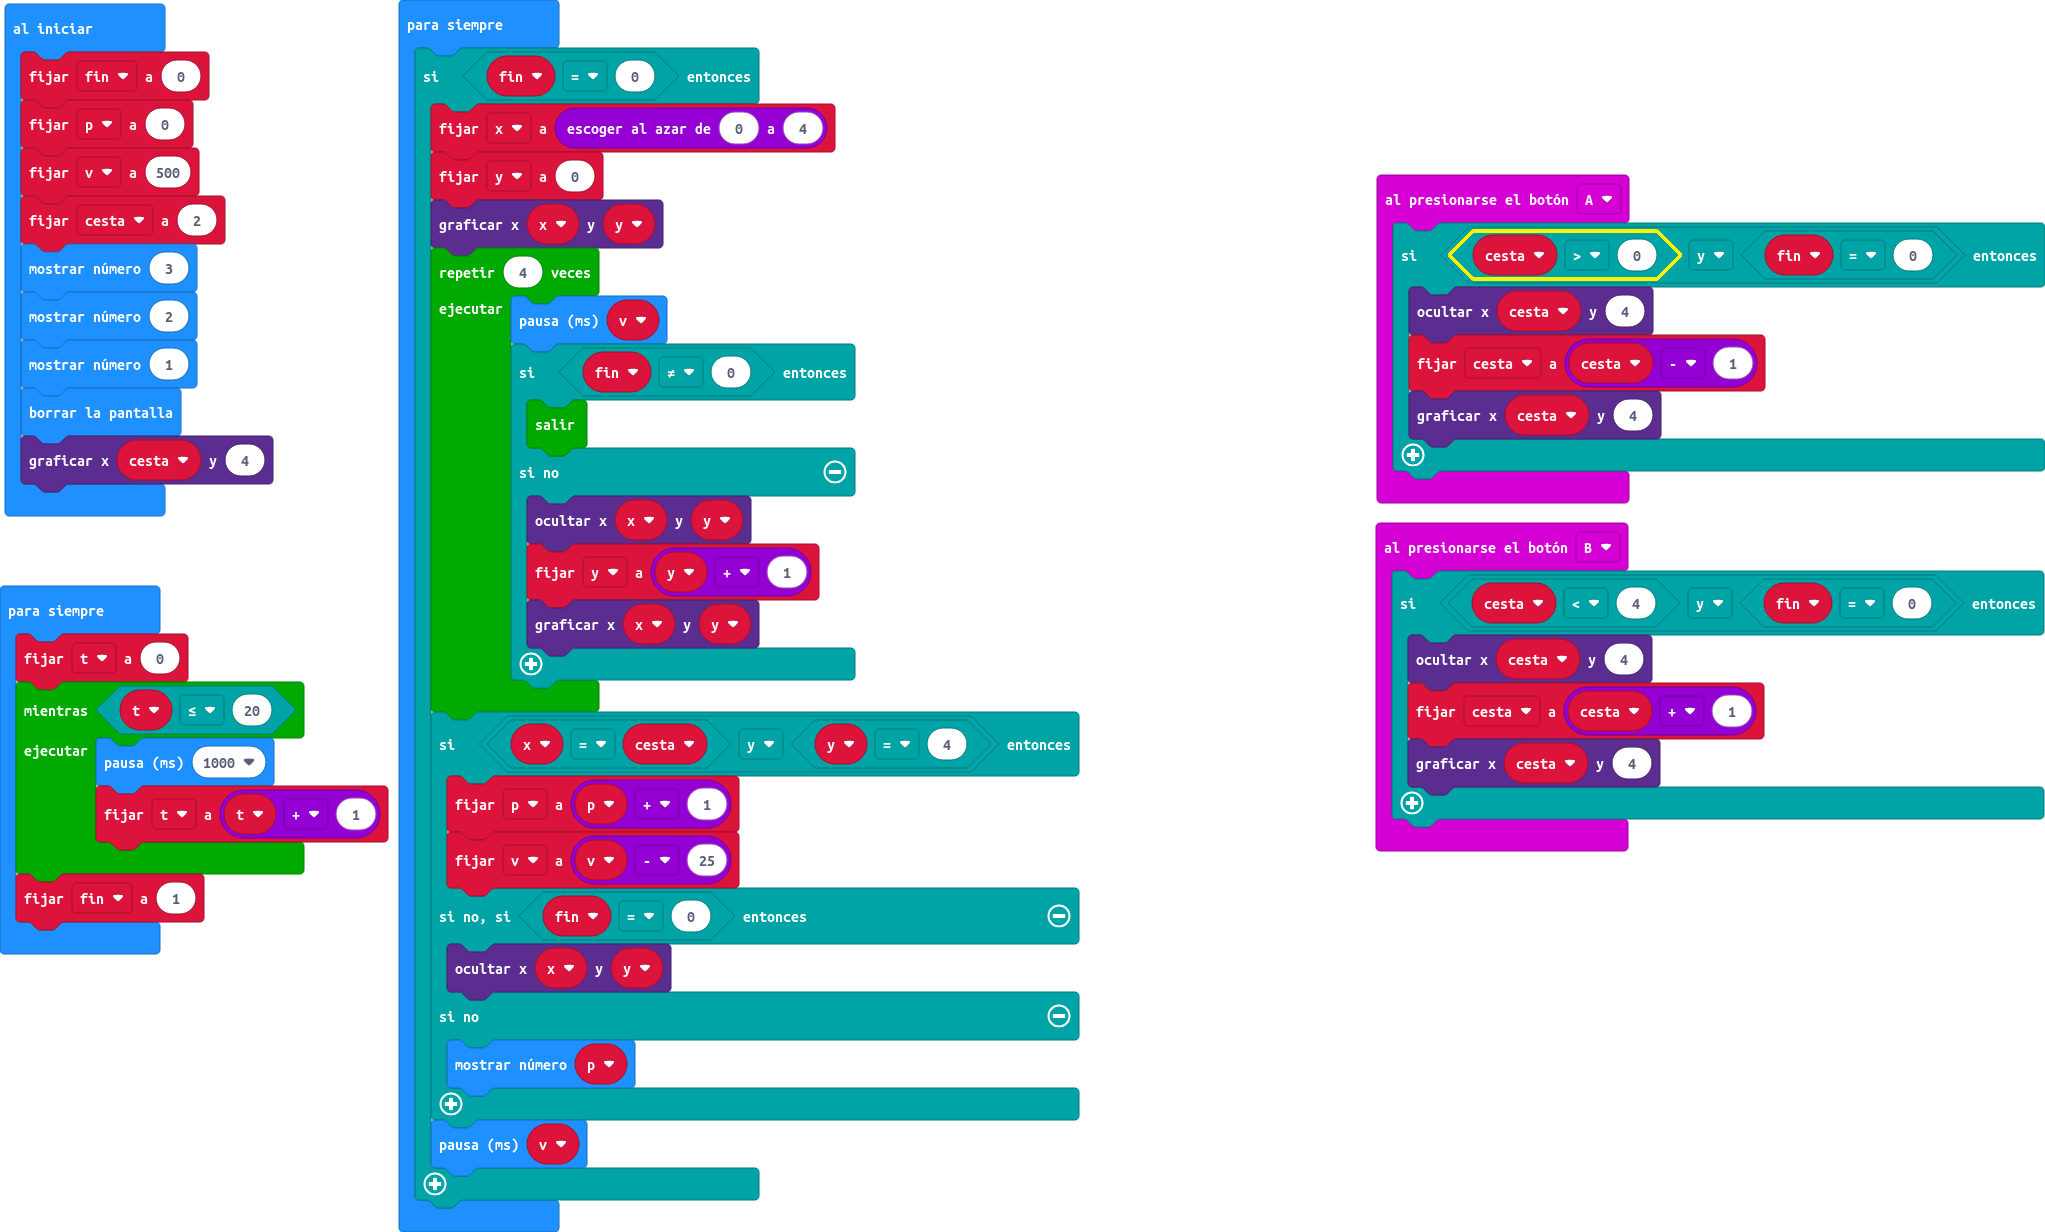
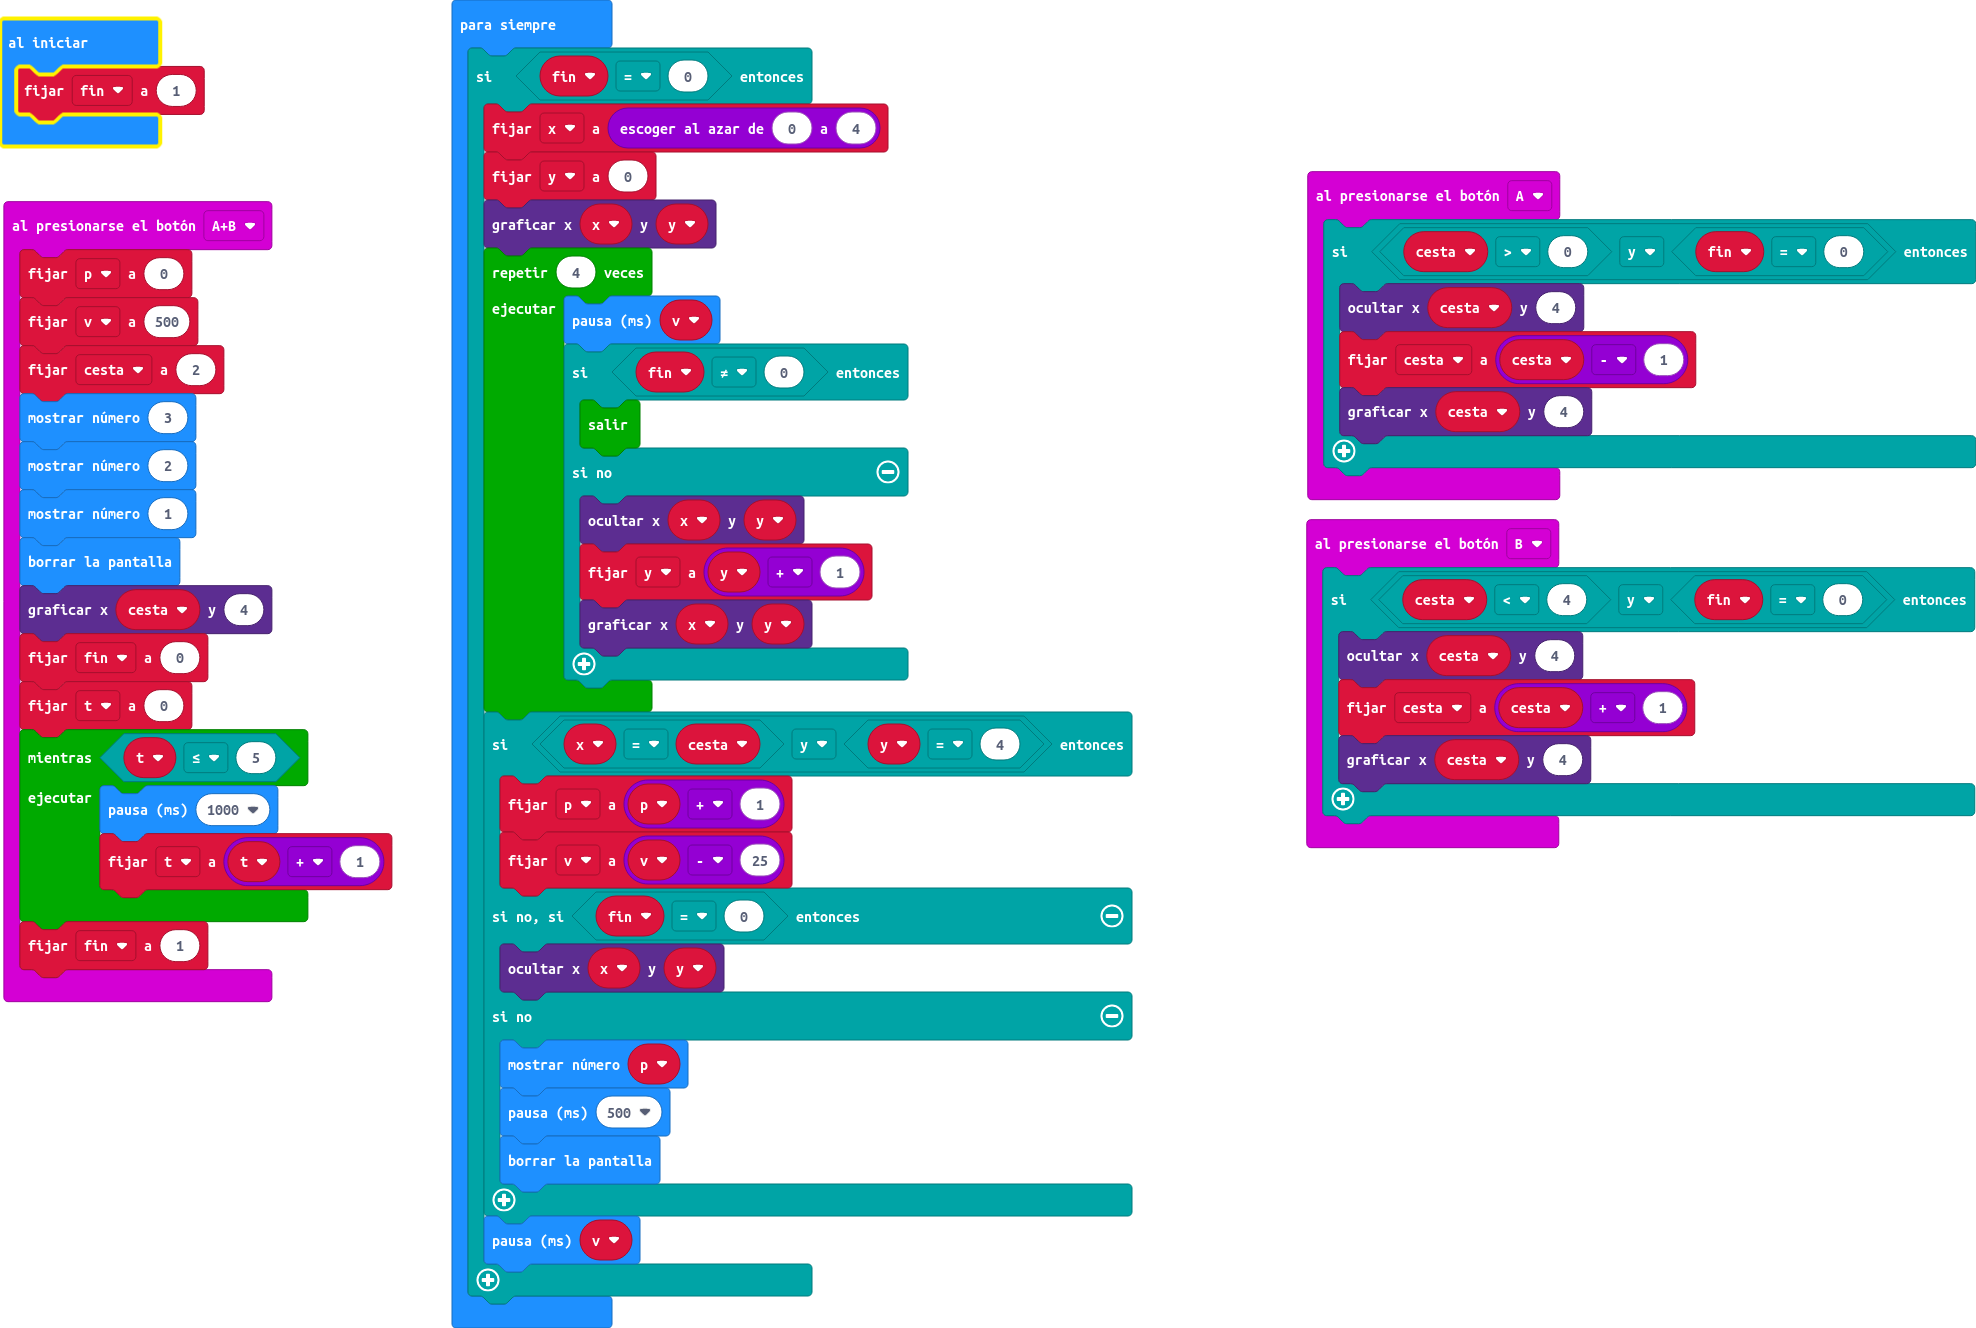
Actualizar main.blocks, main.ts

diff --git a/main.ts b/main.ts
@@ -5,6 +5,23 @@ input.onButtonPressed(Button.A, function () {
         led.plot(cesta, 4)
     }
 })
+input.onButtonPressed(Button.AB, function () {
+    p = 0
+    v = 500
+    cesta = 2
+    basic.showNumber(3)
+    basic.showNumber(2)
+    basic.showNumber(1)
+    basic.clearScreen()
+    led.plot(cesta, 4)
+    fin = 0
+    t = 0
+    while (t <= 5) {
+        basic.pause(1000)
+        t = t + 1
+    }
+    fin = 1
+})
 input.onButtonPressed(Button.B, function () {
     if (cesta < 4 && fin == 0) {
         led.unplot(cesta, 4)
@@ -12,20 +29,14 @@ input.onButtonPressed(Button.B, function () {
         led.plot(cesta, 4)
     }
 })
-let t = 0
 let y = 0
 let x = 0
+let t = 0
+let v = 0
+let p = 0
 let cesta = 0
 let fin = 0
-fin = 0
-let p = 0
-let v = 500
-cesta = 2
-basic.showNumber(3)
-basic.showNumber(2)
-basic.showNumber(1)
-basic.clearScreen()
-led.plot(cesta, 4)
+fin = 1
 basic.forever(function () {
     if (fin == 0) {
         x = randint(0, 4)
@@ -48,15 +59,9 @@ basic.forever(function () {
             led.unplot(x, y)
         } else {
             basic.showNumber(p)
+            basic.pause(500)
+            basic.clearScreen()
         }
         basic.pause(v)
     }
-})
-basic.forever(function () {
-    t = 0
-    while (t <= 20) {
-        basic.pause(1000)
-        t = t + 1
-    }
-    fin = 1
 })
